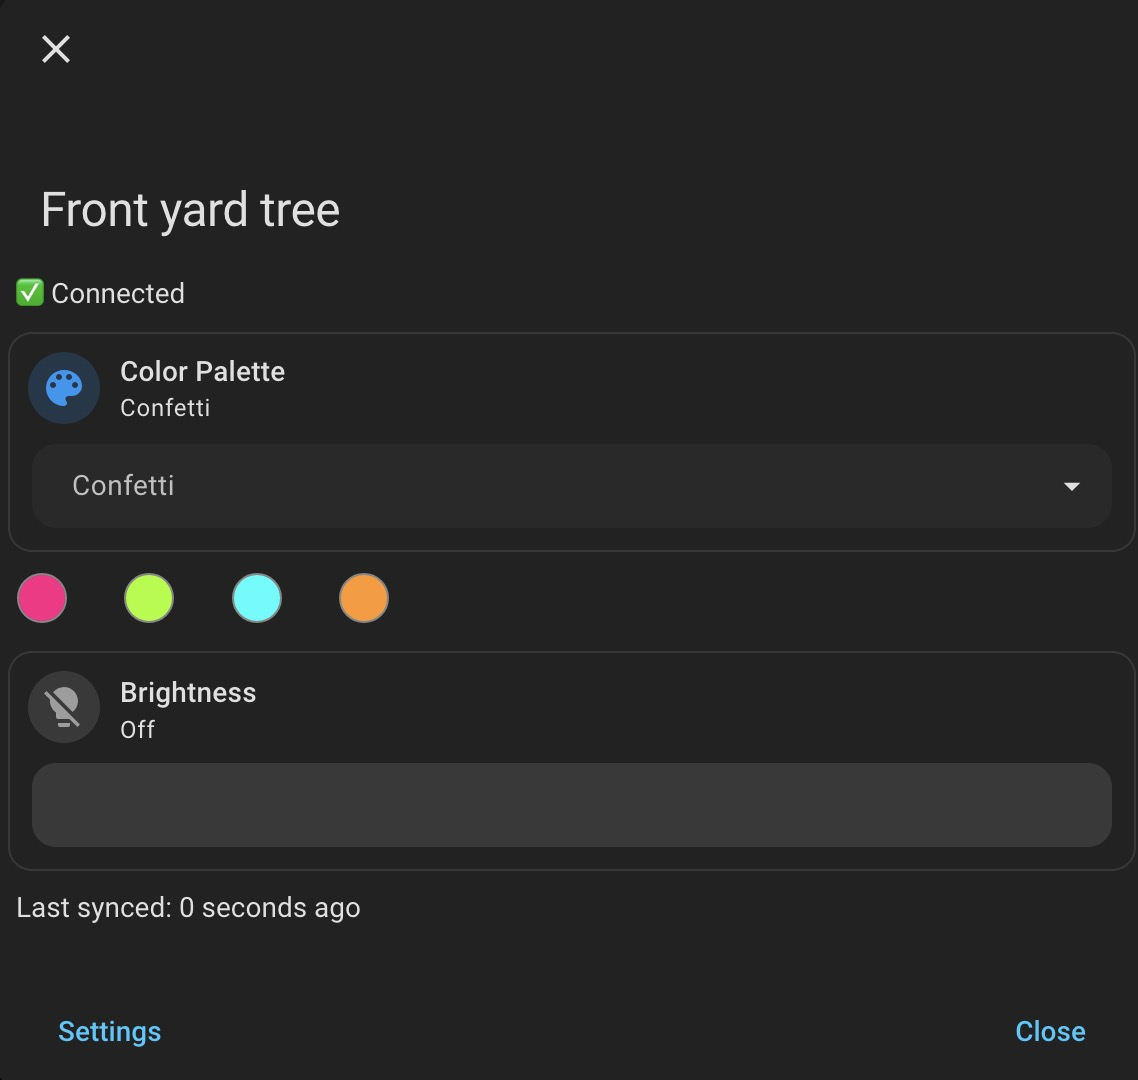
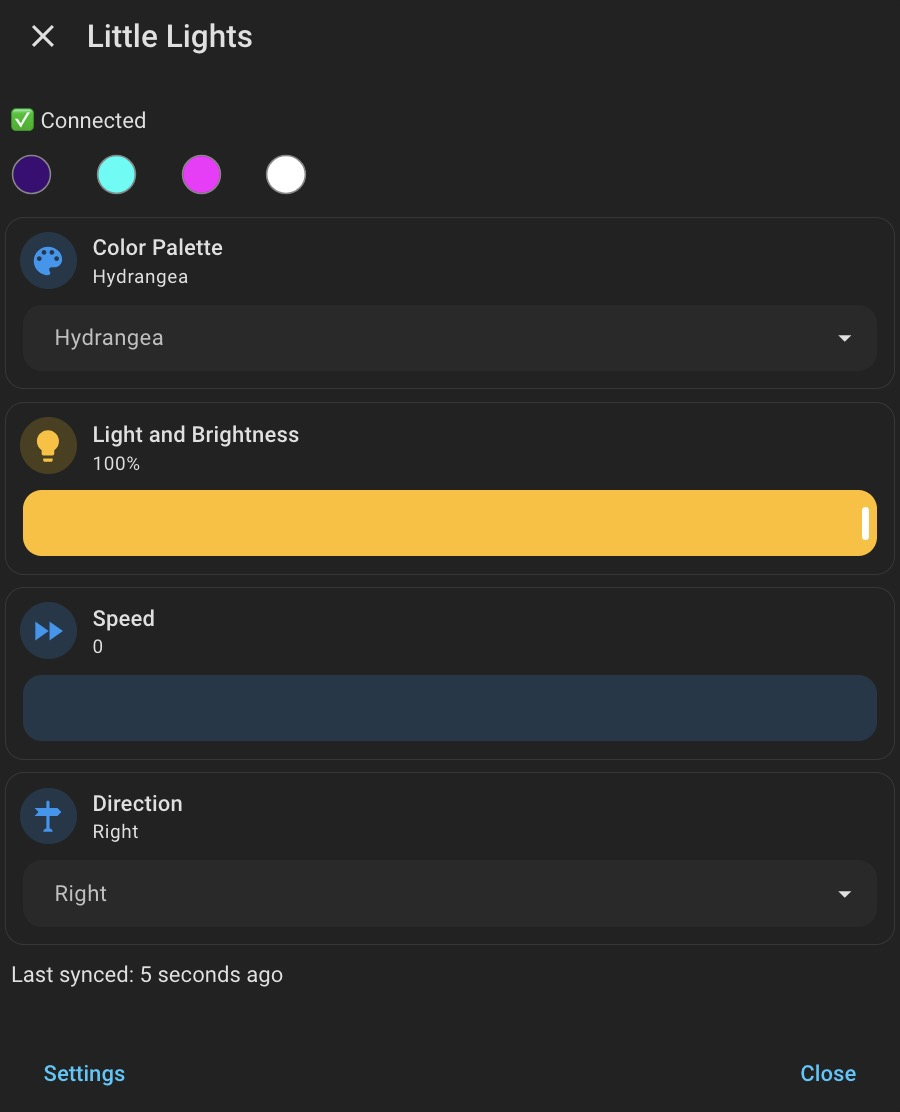
docs: Update readme and images, add video

diff --git a/README.md b/README.md
@@ -180,6 +180,12 @@ It includes a tile card on the dashboard that, on click:
 - Connects to the device
 - Opens the Browser mod modal to show more device settings
 
+### Video
+
+<video width="180" height="360" controls>
+  <source src="./images/dashboard-card-and-popup.MP4" />
+</video>
+
 ### Screenshots
 
 #### Main dashboard card
@@ -191,8 +197,8 @@ type: tile
 grid_options:
   columns: 6
   rows: 1
-entity: light.<your_device_name>
-name: My Lights
+entity: light.<your_light>
+name: <your_light_name>
 vertical: false
 tap_action:
   action: fire-dom-event
@@ -202,10 +208,10 @@ tap_action:
       sequence:
         - service: browser_mod.more_info
           data:
-            entity: light.<your_device_name>
+            entity: light.<your_light>
         - service: switch.turn_on
           target:
-            entity_id: switch.<your_device_name>_connection
+            entity_id: switch.<your_light>_connection
 features_position: bottom
 ```
 
@@ -225,7 +231,7 @@ content: >-
   set ns.r, ns.g, ns.b = c, 0, x -%}{%- endif -%}#{{ '%02x' % (((ns.r + m) *
   255) | round | int) }}{{ '%02x' % (((ns.g + m) * 255) | round | int) }}{{
   '%02x' % (((ns.b + m) * 255) | round | int) }}{%- endmacro -%} {% for hsv in
-  state_attr('light.<your_device_name>', 'colors') %}{% if hsv.hue
+  state_attr('light.<your_light>', 'colors') %}{% if hsv.hue
   + hsv.saturation + hsv.value > 0 %}![dot](data:image/svg+xml,{{ ('<svg
   xmlns="http://www.w3.org/2000/svg" width="26" height="26"><circle cx="13"
   cy="13" r="12" fill="' ~ hsv_to_hex(hsv.hue, hsv.saturation, hsv.value) ~ '"
@@ -247,7 +253,8 @@ card:
   cards:
     - type: markdown
       content: >-
-        {% set state = states("switch.<your_device_name>_connection") %}
+        {% set state =
+        states("switch.<your_light>_connection") %}
 
         {{
           '✅ Connected' if state == "on"
@@ -256,6 +263,10 @@ card:
         }}
       text_only: true
     - type: markdown
+      visibility:
+        - condition: state
+          entity: switch.<your_light>_connection
+          state: "on"
       text_only: true
       content: >-
         {% macro hsv_to_hex(h, s, v) -%}{%- set ns = namespace(r=0, g=0, b=0)
@@ -269,7 +280,7 @@ card:
         0, x -%}{%- endif -%}#{{ '%02x' % (((ns.r + m) * 255) | round | int)
         }}{{ '%02x' % (((ns.g + m) * 255) | round | int) }}{{ '%02x' % (((ns.b +
         m) * 255) | round | int) }}{%- endmacro -%} {% for hsv in
-        state_attr('light.<your_device_name>', 'colors') %}{% if
+        state_attr('light.<your_light>', 'colors') %}{% if
         hsv.hue + hsv.saturation + hsv.value > 0 %}![dot](data:image/svg+xml,{{
         ('<svg xmlns="http://www.w3.org/2000/svg" width="26" height="26"><circle
         cx="13" cy="13" r="12" fill="' ~ hsv_to_hex(hsv.hue, hsv.saturation,
@@ -277,28 +288,50 @@ card:
         }})&nbsp;&nbsp;&nbsp;&nbsp;&nbsp;&nbsp;&nbsp;&nbsp;{% endif %}{% endfor
         %}
     - type: custom:mushroom-select-card
-      entity: select.<your_device_name>_color_palette
+      visibility:
+        - condition: state
+          entity: switch.<your_light>_connection
+          state: "on"
+      entity: select.<your_light>_color_palette
       name: Color Palette
     - type: tile
       grid_options:
         columns: 12
         rows: 2
-      entity: light.<your_device_name>
-      name: Brightness
+      visibility:
+        - condition: state
+          entity: switch.<your_light>_connection
+          state: "on"
+      entity: light.<your_light>
+      name: Light and Brightness
       vertical: false
       tap_action:
         action: more-info
       features:
         - type: light-brightness
       features_position: bottom
+    - type: custom:mushroom-number-card
+      visibility:
+        - condition: state
+          entity: switch.<your_light>_connection
+          state: "on"
+      entity: number.<your_light>_effect_speed
+      name: Speed
+    - type: custom:mushroom-select-card
+      visibility:
+        - condition: state
+          entity: switch.<your_light>_connection
+          state: "on"
+      entity: select.<your_light>_effect_direction
+      name: Direction
     - type: markdown
       content: >-
         {{ 'Last synced: ' ~
-        time_since(as_datetime(state_attr("light.<your_device_name>",
+        time_since(as_datetime(state_attr("light.<your_light>",
         "last_updated"))) ~ ' ago'}}
       text_only: true
-title: Little Lights
-popup_card_id: ble-lights-<your_device_name>
+title: <your_light_name>
+popup_card_id: <your_light>-popup-card
 popup_card_all_views: false
 right_button_close: true
 left_button_close: true
@@ -311,10 +344,10 @@ left_button_action:
   - action: browser_mod.navigate
     metadata: {}
     data:
-      path: /config/devices/device/<device_id>
+      path: /config/devices/device/<your_device_id>
 target:
   entity_id:
-    - light.<your_device_name>
+    - light.<your_light>
 left_button: Settings
 ```
 